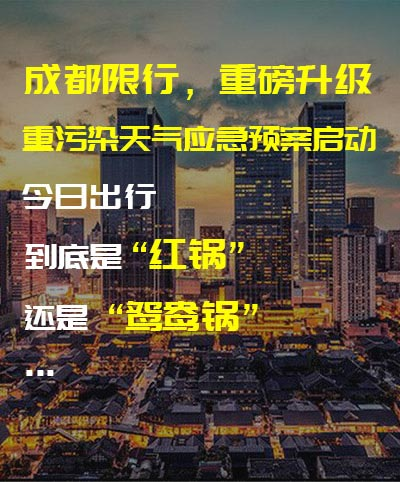
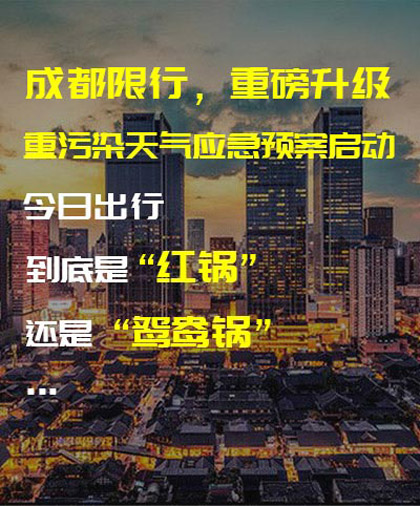
reason:完成生成朋友圈分享图 author:lidechun

diff --git a/client/pages/index/index.js b/client/pages/index/index.js
@@ -180,7 +180,6 @@ Page({
             // 从服务器获取限行信息
             getBanInfo(self);
         });
-        ShareImgFun(self);
     },
     onHide: function(e){
         FormIdFun.save();
@@ -195,7 +194,6 @@ Page({
         })
     },
     banPopShow: function () {
-        console.log("show");
         this.setData({
             popclass: ""
         })
@@ -229,6 +227,29 @@ Page({
                 console.log(error)
             }
         })
+    },
+    // 生成分享图
+    createShareImg: function(){
+        var self = this;
+        wx.showLoading({
+            title: '正在生成图片...',
+            mask: true
+        })
+        // 获取用户信息
+        wx.getUserInfo({
+            success: function (res) {
+                var userInfo = res.userInfo;
+                var avatarUrl = userInfo.avatarUrl;
+                wx.downloadFile({
+                    url: avatarUrl,
+                    success: function (res) {
+                        userInfo.faceimg = res.tempFilePath;
+                        drawShareImg(self, userInfo);
+                    }
+                })
+            },
+            fail: function () { }
+        })
     }
 });
 // 获取请求参数
@@ -261,75 +282,82 @@ function getBanInfo(self){
         }
     })
 }
-// 分享图
-function ShareImgFun(self){
-    // 获取用户信息
-    wx.getUserInfo({
-        success: function (res) {
-            var userInfo = res.userInfo;
-            var avatarUrl = userInfo.avatarUrl;
-            wx.downloadFile({
-                url: avatarUrl,
-                success: function (res) {
-                    userInfo.faceimg = res.tempFilePath;
-                    createShareImg(self, userInfo);
-                }
-            })
-        },
-        fail: function(){}
-    })
-}
-//生成分享图
-function createShareImg(self, userInfo) {
+//画分享图
+function drawShareImg(self, userInfo) {
     var canvasInfo = {
-        width: 400,
-        height: 712
+        width: 420,
+        height: 747
     };
     //物理像素比
     var sysInfo = wx.getSystemInfoSync();
     var pixelRatio = sysInfo.pixelRatio;
     var shareBannerImg = {
         src: "../../asset/image/sharebanner.jpg",
-        width: 400,
-        height: 482
+        width: 420,
+        height: 506
     };
     const ctx = wx.createCanvasContext('myCanvas');
     // 底色白色
-    // ctx.rect(0, 0, canvasInfo.width, canvasInfo.height);
-    // ctx.setFillStyle('#FFFFFF');
-    // ctx.fill();
+    ctx.beginPath();
+    ctx.rect(0, 0, canvasInfo.width, canvasInfo.height);
+    ctx.setFillStyle('#FFFFFF');
+    ctx.fill();
+    ctx.closePath();
+
+    ctx.beginPath();
     // 顶部banner
     ctx.drawImage(shareBannerImg.src, 0, 0, shareBannerImg.width, shareBannerImg.height);
+    ctx.closePath();
     // 头像
     var faceImg = userInfo.faceimg;
-    ctx.drawImage(faceImg, 160, 442, 76, 76);
-    ctx.arc(200, 482, 40, 0, 2 * Math.PI);
-    ctx.setLineWidth(5);
+    //画圆形图片
+    function circleImg(ctx, img, x, y, r) {
+        ctx.save();
+        var d = 2 * r;
+        var cx = x + r;
+        var cy = y + r;
+        ctx.arc(cx, cy, r, 0, 2 * Math.PI);
+        ctx.clip();
+        ctx.drawImage(img, x, y, d, d);
+        ctx.restore();
+    }
+    circleImg(ctx, faceImg, 168, 466, 40);
+
+    ctx.beginPath();
+    ctx.arc(208, 506, 40, 0, 2 * Math.PI);
+    ctx.setLineWidth(2);
     ctx.setStrokeStyle('white');
     ctx.stroke();
+    ctx.closePath();
+
+    ctx.beginPath();
     // 昵称
     var nickName = userInfo.nickName;
     ctx.setTextAlign('center');
     ctx.setFillStyle('#333333');
-    ctx.setFontSize(13);
-    ctx.fillText(nickName, 200, 526);
+    ctx.setFontSize(16);
+    ctx.fillText(nickName, 210, 562);
     //文案
     ctx.setFillStyle('#666666');
     ctx.setTextAlign('center');
-    ctx.setFontSize(15);
-    ctx.fillText("邀你开启，成都重污染天气预警实时提醒", 200, 552);
+    ctx.setFontSize(18);
+    ctx.fillText("邀你开启，成都重污染天气预警实时提醒", 210, 590);
+    ctx.closePath();
+
+    ctx.beginPath();
     // 二维码
     var qrImg = "../../asset/image/qr.jpg";
-    ctx.drawImage(qrImg, 74, 583, 95, 95);
+    ctx.drawImage(qrImg, 80, 605, 110, 110);
     // 长按识别
-    // ctx.rect(190, 610, 2, 42);
-    // ctx.setFillStyle('yellow');
-    // ctx.fill();
+    ctx.rect(210, 633, 2, 42);
+    ctx.setFillStyle('yellow');
+    ctx.fill();
     ctx.setTextAlign('left');
-    ctx.setFillStyle('#666666');
-    ctx.setFontSize(15);
-    ctx.fillText("长按识别小程序码", 210, 610);
-    ctx.fillText("爱车出行无烦恼", 210, 635);
+    ctx.setFillStyle('#868686');
+    ctx.setFontSize(17);
+    ctx.fillText("长按识别小程序码", 220, 648);
+    ctx.fillText("爱车出行无烦恼", 220, 673);
+    ctx.closePath();
     ctx.draw();
     // 保存图片
     setTimeout(function savePic() {
@@ -340,26 +368,16 @@ function createShareImg(self, userInfo) {
             success: function (res) {
                 var imgPath = res.tempFilePath;
                 wx.hideLoading();
-                self.setData({
-                    shareimgHide: false,
-                    shareimgSrc: imgPath
-                });
-                return ;
-                // 保存图片
-                wx.saveImageToPhotosAlbum({
-                    filePath: imgPath,
-                    success: function (res) {
-
-                    },
-                    fail: function (res) {
-                        
-                    }
+                // 预览图片
+                wx.previewImage({
+                    current: imgPath,
+                    urls: [imgPath]
                 })
             },
             fail: function (err) {
                 console.log(err);
             }
         })
-    }, 300);
+    }, 500);
 }
 
